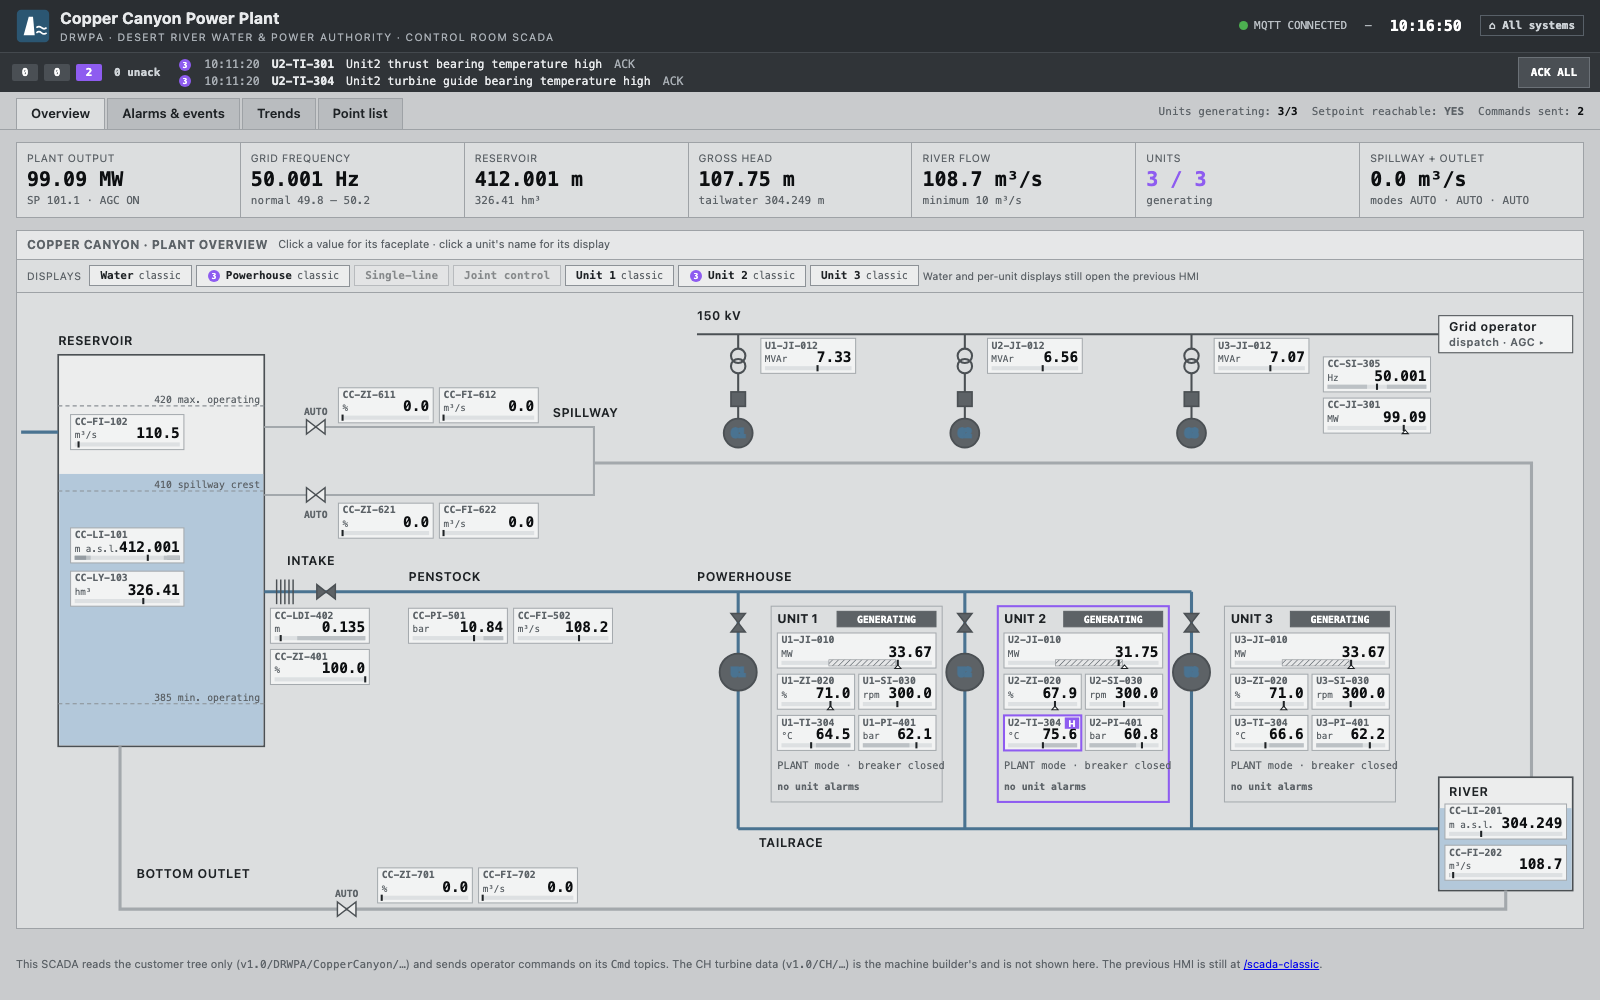
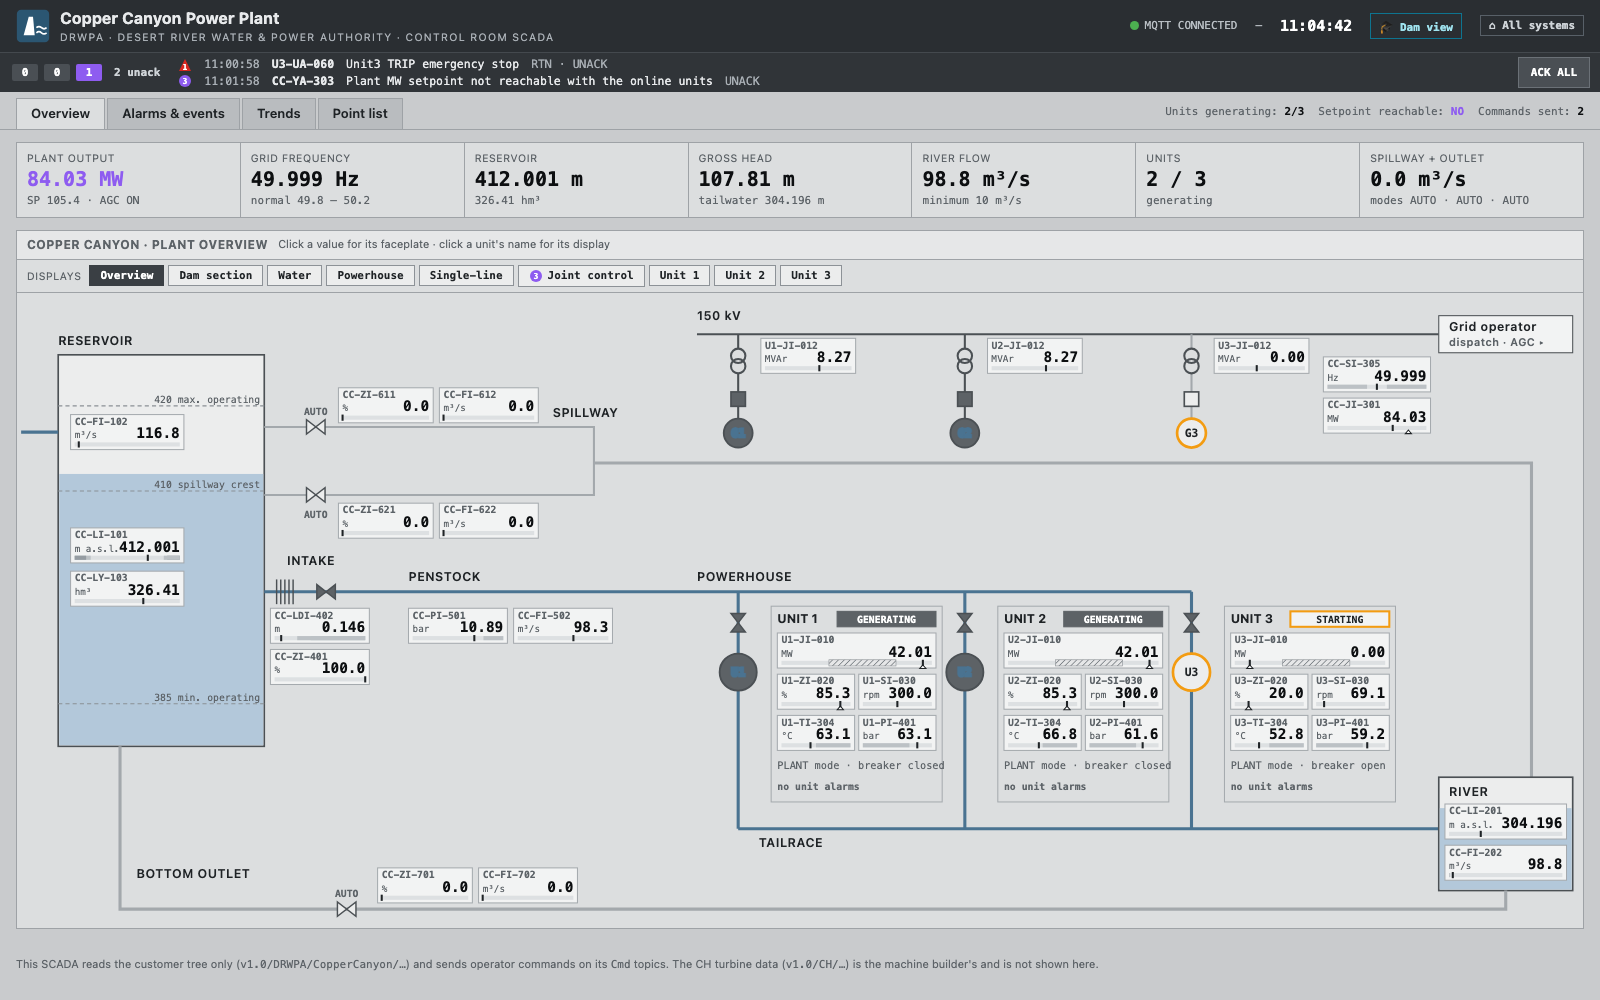
SCADA rebuild: screenshots, RCA walkthrough note, ROADMAP progress

diff --git a/ROADMAP.md b/ROADMAP.md
@@ -117,6 +117,7 @@ Topic names in Ideas and Planned may not exist yet. That is why this file is not
 - **Done when:** the four steps of the proposal are merged, each green: (1) shell, Plant overview, faceplates, point names; (2) unit displays, sequence and permissives; (3) water, single-line, joint control; (4) historian, SOE, docs and screenshots.
 - **Notes:** `2026-11-19 David: decided: light-grey theme as HCW; ISA-5.1 point names with a unit prefix (U1-TI-304, CC-LI-101); publish SequenceStep and StartPermissives; add a persistent (SQLite) historian.` Open: single-line values (proposal: only what the tree has), when to remove `/scada-classic` (proposal: step 4).
   `2026-11-19 David: keep the old overview's physical picture of the dam.` Done in step 1 as the *Dam section* display (`#section`, header button *🎓 Dam view*): the cross-section to scale with teal training notes. `/scada-classic` is then only needed for the unit, water and governor displays.
+  `2026-11-19 Claude:` steps 1–4 built on the branch (interface 1.0 → 1.3: page `/scada-classic`, topics `SequenceStep` and `StartPermissives`, routes `/api/soe`, `/api/points`, `/api/historian`); `/scada-classic` kept as a page listing the successors (removing it would be a breaking change). Open: the RCA replay (`rca-demo/build/replay_history.py`, item `rca-history-and-bot-run`) doesn't publish the two new unit tags, so the unit display shows them stale during a replay, and the six `rca-scada-*.png` still show the previous HMI. Single-line built with only the tree's values (proposal default).
 
 ## Planned
 

diff --git a/wiki/RCA-demo-walkthrough.md b/wiki/RCA-demo-walkthrough.md
@@ -79,7 +79,9 @@ The control room has two screens for Unit 1:
   nobody is assigned to watch it.
 
 The screenshots below come from `rca-demo/replay.sh`, which plays the recorded history on the
-running stack (see [Replay it yourself](#replay-it-yourself)). The clock on the screens is the wall
+running stack (see [Replay it yourself](#replay-it-yourself)). They show the **previous** dam SCADA
+HMI; the [current one](Dam-SCADA) shows the same data in the high-performance style, with the same
+point names and alarms. The clock on the screens is the wall
 clock of the replay; the plant time is in each heading.
 
 ### 2 Nov 23:54: pad 3 passes 75 °C
